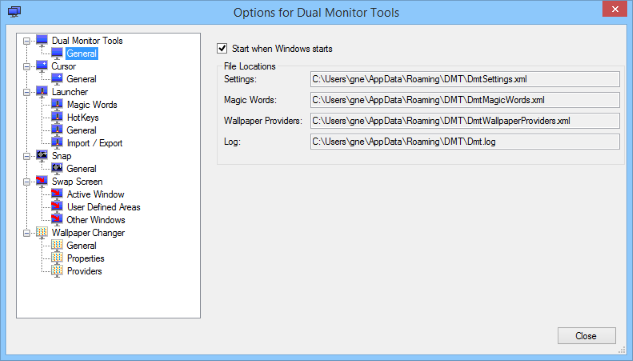
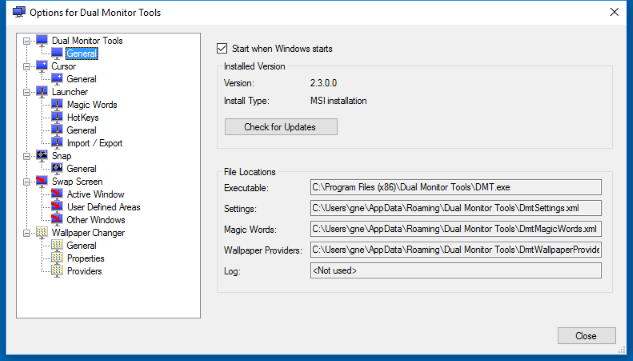
v2.3
git-svn-id: svn://svn.code.sf.net/p/dualmonitortool/code/trunk@416 fb2ba5e6-08d8-4d4c-bdde-3d14dca355d2

diff --git a/Web/download.html b/Web/download.html
@@ -68,16 +68,67 @@ may be downloaded from <a href="http://sourceforge.net/project/platformdownload.
 
 <p class="SubHeading">Installation</p>
 
-<p>There is currently no installer for Dual Monitor Tools, 
-so you will need to unzip the file you downloaded into the directory
-you want to run the tools from.</p>
+<p>There are 2 choices for installation:
+<ul>
+	<li>Use the msi installer.  This is the simplest method and will make
+	installing any future versions even easier.</li>
+	<li>Portable install.
+This involves more work but gives you the most flexibility and is the route to use if you
+are installing to a portable device.</li>
+</ul>
+</p>
 
-<p>If you have installed a previous version of Dual Monitor Tools, then you will need
-to make sure that none of these tools are currently running.  
-Remember that SwapScreen, DualLauncher, DualWallpaperChanger and DualSnap run from the notification area of the taskbar, 
-so to close these tools down you will need to right click on the corresponding icon and select Exit.
-If any of these tools have the 'Start when Windows start' options set, then you will need to untick these first
-as you don't want the old version of these tools running at the same time as DMT which provides the same functionality.</p>
+
+<p class="SubHeading">Msi Installation for new users</p>
+
+<p>Just download the latest msi file and run it.</p>
+
+
+<p class="SubHeading">Msi installation for existing/portable users</p>
+
+<p>With a msi installation, the executable and configuration files will live
+in different locations, so there are some extra steps that you need to go
+through if you wish to keep your existing configuration:
+<ol>
+	<li>In your existing version of DMT, make sure "Start when Windows starts"
+    (found in Options-&gt;Dual Monitor Tools-&gt;General) is not ticked.</li>
+	<li>Make sure DMT is not currently running.</li>
+	<li>Make sure you have a backup copy of the following configuration files:
+	<i>DmtMagicWords.xml</i>,
+	<i>DmtSettings.xml</i> and
+	<i>DmtWallpaperProviders.xml</i>.
+    These would normally be in the same directory that you previously installed
+    Dual Monitor Tools too.</li>
+	<li>Download and run the new msi installer.</li>
+	<li>Double click on DMT in the notification area.</li>
+	<li>Select the 'General' page under 'Dual Monitor Tools'.
+    This will show the location where the configuration files now live.
+    The files will be in the '%appdata%\Dual Monitor Tools' folder, which should
+    be something like:
+    'C:\Users\&lt;your login name&gt;\AppData\Roaming\Dual Monitor Tools'</li>
+	<li>Stop DMT.</li>
+	<li>Copy the 3 xml files into the above location.</li>
+	<li>Start DMT. There should be an option in the Start menu to do this.</li>
+	<li>Don't forget to tick the "Start when Windows starts" option if required.</li>
+</ol>
+
+Note: future updates will be much simpler as they can be performed from within
+DMT.
+</p>
+
+<p class="SubHeading">Portable installation</p>
+
+<p>
+<ol>
+	<li>Download the zip file.</li>
+	<li>If you are already running the files from a previous version, then stop
+    them.</li>
+	<li>Unzip the zip file to your desired location.</li>
+	<li>The tools are now ready to run.  You may need to give Windows permission
+    to run the files as they were downloaded from the internet.</li>
+</ol>
+</p>
+
 
 <p class="SubHeading">Running</p>
 
@@ -87,7 +138,12 @@ then this probably means you do not have .NET 4.0 installed.</p>
 
 <p>See the tool specific pages to see how to use each tool.</p>
 
-<p class="SubHeading">Uninstall</p>
+<p class="SubHeading">Uninstall of msi installation</p>
+
+<p>You can uninstall from within Windows installed application list.</p>
+
+
+<p class="SubHeading">Uninstall of portable installation</p>
 
 <p>If you have set the 'Start when Windows starts' in the options, then you
 will need to turn this off before removing anything.</p>
@@ -103,7 +159,7 @@ the tools and their data files.</p>
 		<div id="footer-left">
 		</div>
 		<div id="footer-right">
-		last updated 12 Dec 2015
+		last updated 2 Feb 2016
 		</div>
 	</div>
 </div>

diff --git a/Web/dmt.html b/Web/dmt.html
@@ -86,6 +86,9 @@ Alternatively, you can right click on the icon to bring up it's context menu.</p
 <p>If you want DMT to start automatically when your computer boots,
 then just check the 'Start when Windows starts' option.</p>
 
+<p class="SubHeading2">Installed Version</p>
+
+<p>This will show the current version you have installed and whether it was installed from a msi installer or if it is a portable installation installed from a zip file.</p>
 
 <p class="SubHeading">'Run as Administrator'</p>
 
@@ -98,6 +101,7 @@ then you will need to run DMT with the 'Run as Administrator' option.</p>
 <p class="SubHeading">Portable Mode</p>
 
 <p>DMT has the ability to run from a portable device, such as a USB memory stick.</p>
+<p>To use this mode you will need to download the zip file rather than using the msi installer.</p>
 <p>By default DMT will save any configuration files to the same directory that it runs from,
 so if you are running it from a portable device, any options set will also be saved to the device.</p>
 <p>If you want the application to reside in a read only directory, then this can be achieved by

diff --git a/Web/development.html b/Web/development.html
@@ -88,6 +88,8 @@ then you can check out the very latest code with:</p>
 	<li>Visual C++ 2010 Express Edition (needed for DisMon7 only)</li>
 </ul>
 
+<p>The WIX Toolset v3.10 is used to build the installer.</p>
+
 <p class="SubHeading">Directory layout</p>
 <p>The following sub-directories exist in the main project directory:
 <br />(Note: the directory Web is only available under svn) 
@@ -97,6 +99,8 @@ then you can check out the very latest code with:</p>
 	<dd>Contains the C# source for DMT.</dd>
 	<dt>DualWallpaper</dt>
 	<dd>Contains the C# source for Dual Wallpaper.</dd>
+	<dt>Installer</dt>
+	<dd>Contains the installer.</dd>
 	<dt>Web</dt>
 	<dd>Contains this web site.</dd>
 </dl>
@@ -130,7 +134,7 @@ to convert these to HTML viewable documentation.</p>
 		<div id="footer-left">
 		</div>
 		<div id="footer-right">
-		last updated 13 Jun 2015
+		last updated 2 Feb 2016
 		</div>
 	</div>
 </div>

diff --git a/Web/history.html b/Web/history.html
@@ -54,6 +54,18 @@
 <div id="content">
 
 
+
+<p class="SubHeading">2 Feb 2016 - release 2.3</p>
+
+<p>An installer is now available.</p>
+<p><b>DMT</b></p>
+<ul>
+	<li>SwapScreen fix for when swapping top 2 windows.</li>
+	<li>WallpaperChanger makes sure correct wallpaper mode used if using smooth changes.</li>
+	<li>Cursor fix for cursor not sticky after Ctrl-Alt-Del.</li>
+	<li>No longer allows multiple instances of its GUI interface to be run.</li>
+</ul>
+
 <p class="SubHeading">19 Dec 2015 - release 2.2</p>
 
 <p><b>DMT</b></p>
@@ -316,7 +328,7 @@ DisMon has been dropped for the time being.</p>
 		<div id="footer-left">
 		</div>
 		<div id="footer-right">
-		last updated 12 Dec 2015
+		last updated 2 Feb 2016
 		</div>
 	</div>
 </div>

diff --git a/Web/index.html b/Web/index.html
@@ -59,7 +59,7 @@
 
 
 <p class="SubHeading">Current status</p>
-<p>The latest release of Dual Monitor Tools is 2.1 and is available for downloading from
+<p>The latest release of Dual Monitor Tools is 2.3 and is available for downloading from
 <a href="http://sourceforge.net/project/platformdownload.php?group_id=252267">SourceForge</a>.</p>
 
 <p>The major change between this version and the 1.* versions is that the functionality of
@@ -156,7 +156,7 @@ or if you have enough monitors, a combination of these.</p>
 		<div id="footer-left">
 		</div>
 		<div id="footer-right">
-		last updated 17 Aug 2015
+		last updated 2 Feb 2016
 		</div>
 	</div>
 </div>

diff --git a/DualWallpaper/DualWallpaper/Properties/AssemblyInfo.cs b/DualWallpaper/DualWallpaper/Properties/AssemblyInfo.cs
@@ -10,7 +10,7 @@ using System.Runtime.InteropServices;
 [assembly: AssemblyConfiguration("")]
 [assembly: AssemblyCompany("GNE")]
 [assembly: AssemblyProduct("DualWallpaper")]
-[assembly: AssemblyCopyright("Copyright © 2010-2015 Gerald Evans and contributors")]
+[assembly: AssemblyCopyright("Copyright © 2010-2016 Gerald Evans and contributors")]
 [assembly: AssemblyTrademark("")]
 [assembly: AssemblyCulture("")]
 
@@ -29,5 +29,5 @@ using System.Runtime.InteropServices;
 //      Build Number
 //      Revision
 //
-[assembly: AssemblyVersion("2.2.0.0")]
-[assembly: AssemblyFileVersion("2.2.0.0")]
+[assembly: AssemblyVersion("2.3.0.0")]
+[assembly: AssemblyFileVersion("2.3.0.0")]

diff --git a/DMT/DMT/Properties/AssemblyInfo.cs b/DMT/DMT/Properties/AssemblyInfo.cs
@@ -32,5 +32,5 @@ using System.Runtime.InteropServices;
 // You can specify all the values or you can default the Build and Revision Numbers 
 // by using the '*' as shown below:
 // [assembly: AssemblyVersion("1.0.*")]
-[assembly: AssemblyVersion("2.2.0.0")]
-[assembly: AssemblyFileVersion("2.2.0.0")]
+[assembly: AssemblyVersion("2.3.0.0")]
+[assembly: AssemblyFileVersion("2.3.0.0")]
